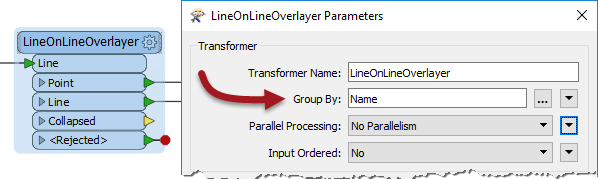
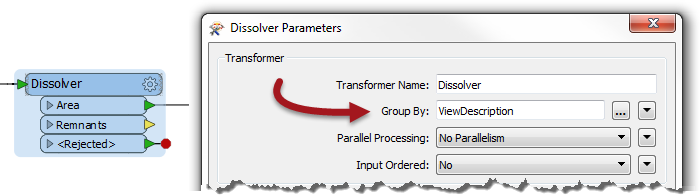
2018 Ch2 Cleanup of Group-By Processing

diff --git a/DesktopBasic2Transformation/2.10.GroupByProcessing.md b/DesktopBasic2Transformation/2.10.GroupByProcessing.md
@@ -41,11 +41,13 @@ Hi. I don't think we've met yet. I'm Mr. Statistics-Calculator. I bet you can't 
 
 ---
 
-Here, a LineOnLineOverlayer transformer is being used to intersect a number of line features. The selected Group-By attribute is *Name*:
+Here, a Dissolver transformer is being used to dissolve (merge together) a number of polygon features. The selected Group-By attribute is *ViewDescription*:
 
 ![](./Images/Img2.034.GroupByParameter.png)
 
-FME creates a series of groups for overlaying, where the features in each group share the same value for the *Name* attribute. The practical outcome is that intersection takes place only where line features share the same name.
+FME creates a series of groups for overlaying, where the features in each group share the same value for the *ViewDescription* attribute. The practical outcome is that polygon dissolving takes place only where line features share the same description:
+
+![](./Images/Img2.034b.GroupByResults.png)
 
 ---
 
